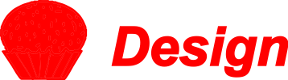
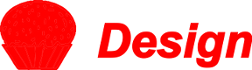
made adjusts suggested

diff --git a/public/stylesheets/home.css b/public/stylesheets/home.css
@@ -1,72 +1,72 @@
 #linkdesign{
-  height: 80px;
-  width: 283px;
+  height: 70px;
+  width: 248px;
   background-image:url("../images/link-design.png");
 }
 
 #linkdesign:hover{
-  height: 80px;
-  width: 288px;
+  height: 70px;
+  width: 252px;
   background-image:url("../images/link-design-s.png");
 }
 
 #linkdev{
-  margin-top: 12px;
-  height: 80px;
-  width: 552px;
+  margin-top: 16px;
+  height: 70px;
+  width: 483px;
   background-image:url("../images/link-dev.png");
 }
 
 #linkdev:hover{
-  margin-top: 12px;
-  height: 80px;
-  width: 554px;
+  margin-top: 16px;
+  height: 70px;
+  width: 485px;
   background-image:url("../images/link-dev-s.png");
 }
 
 #linkaudiovideo{
-  margin-top: 12px;
-  height: 80px;
-  width: 460px;
+  margin-top: 16px;
+  height: 70px;
+  width: 403px;
   background-image:url("../images/link-audiovideo.png");
 }
 
 #linkaudiovideo:hover{
-  margin-top: 12px;
-  height: 80px;
-  width: 502px;
+  margin-top: 16px;
+  height: 70px;
+  width: 443px;
   background-image:url("../images/link-audiovideo-s.png");
 }
 
 #linkpoetry{
-  margin-top: 12px;
-  height: 80px;
-  width: 275px;
+  margin-top: 16px;
+  height: 70px;
+  width: 242px;
   background-image:url("../images/link-poetry.png");
 }
 
 #linkpoetry:hover{
-  margin-top: 12px;
-  height: 80px;
-  width: 265px;
+  margin-top: 16px;
+  height: 70px;
+  width: 232px;
   background-image:url("../images/link-poetry-s.png");
 }
 
 #linkabout{
-  margin-top: 12px;
-  height: 80px;
-  width: 287px;
+  margin-top: 16px;
+  height: 70px;
+  width: 251px;
   background-image:url("../images/link-about.png");
 }
 
 #linkabout:hover{
-  margin-top: 12px;
-  height: 80px;
-  width: 297px;
+  margin-top: 16px;
+  height: 70px;
+  width: 260px;
   background-image:url("../images/link-about-s.png");
 }
 
 #page_title{
-  margin-top: 42px;
+  margin-top: 64px;
 }
 

diff --git a/public/stylesheets/application.css b/public/stylesheets/application.css
@@ -110,8 +110,8 @@ h1 {
 
 #content{
   background-color: #FF0000;
-  width:78%;
-  height:83%;
+  width:780px;
+  height:542px;
   overflow:auto;
   position:relative;
   background-color:#FFFFFF;
@@ -120,7 +120,7 @@ h1 {
   background-image:url("../images/content.png");
   padding-top:20px;
   padding-left:20px;
-
+  padding-right:20px;
   /**margin-top:-35%;
   *margin-left: 16%;
   *padding: -35% 50% 50% 50%;
@@ -131,17 +131,11 @@ h1 {
   *text-align:justify;
   *z-index: 3;
   *background:url("../images/content_ie.png") no-repeat;*/
-
-  background-size: 100% 100%;
-  -moz-background-size: 100% 100%;
-  -o-background-size: 100% 100%;
-  -khtml-background-size: 100% 100%;
 }
 
 #bottom{
-    margin-top: -1px;
     width:100%;
-    height:2.5%;
+    height:21px;
     position:relative;
     background-color:#CD0000;
     color:#FFFFFF;
